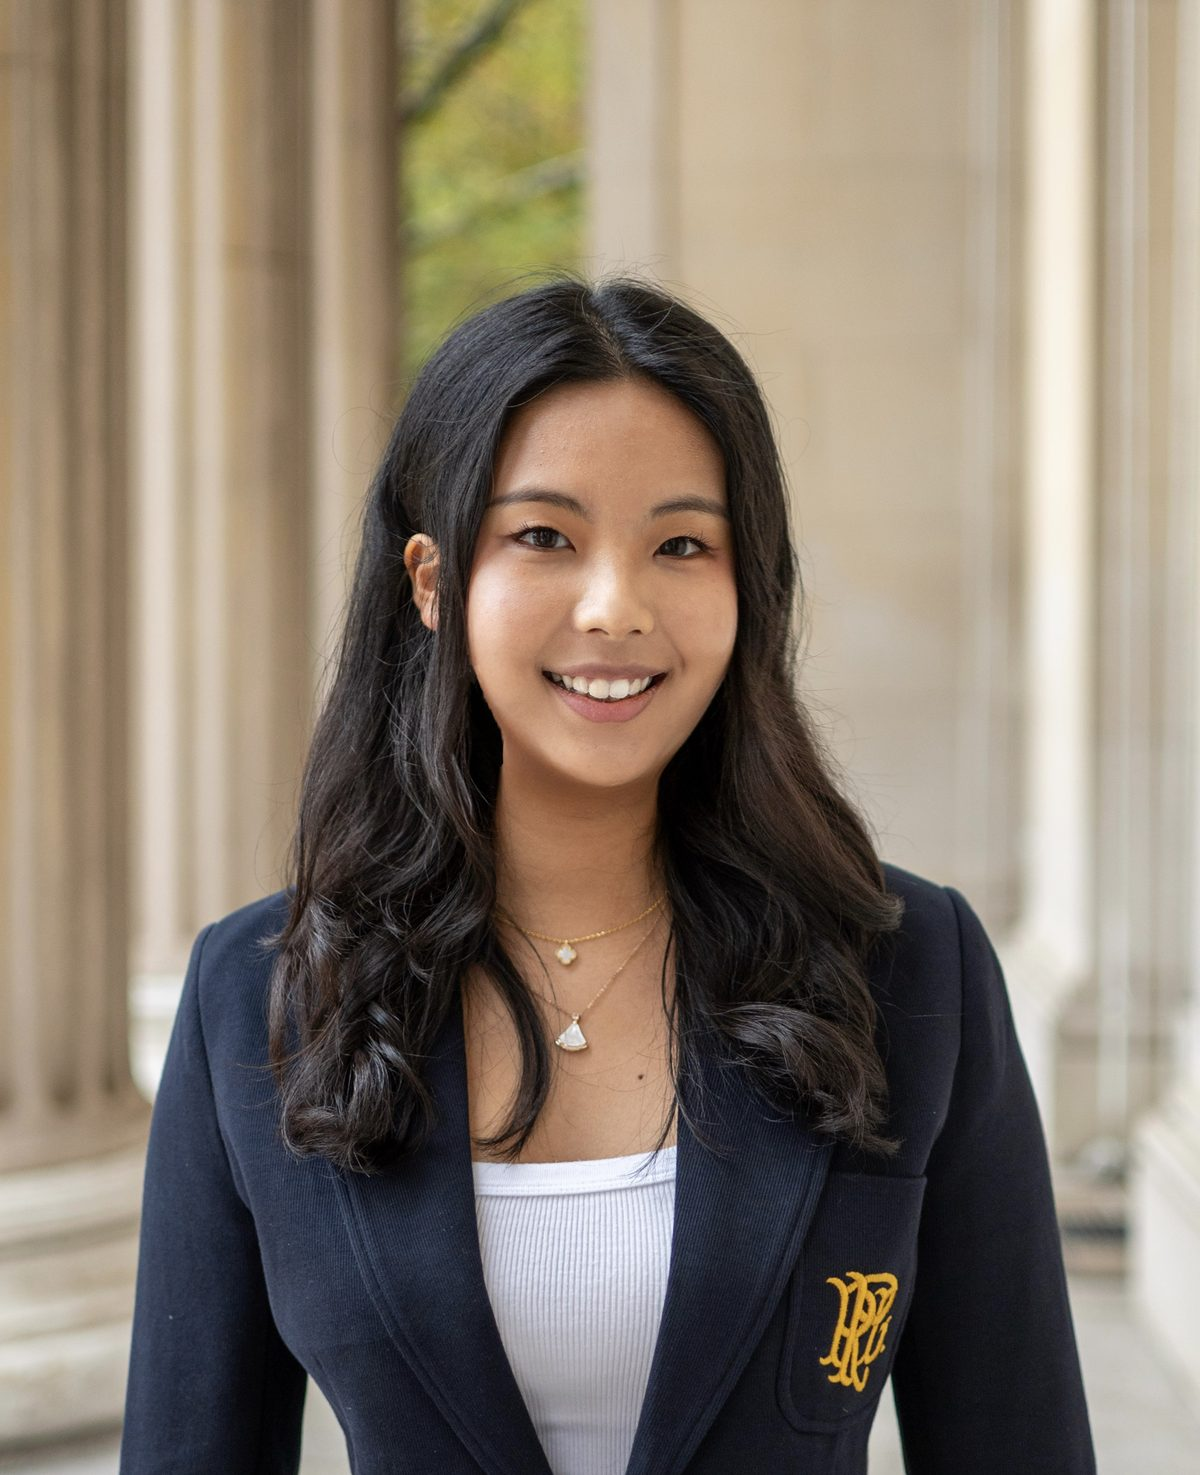
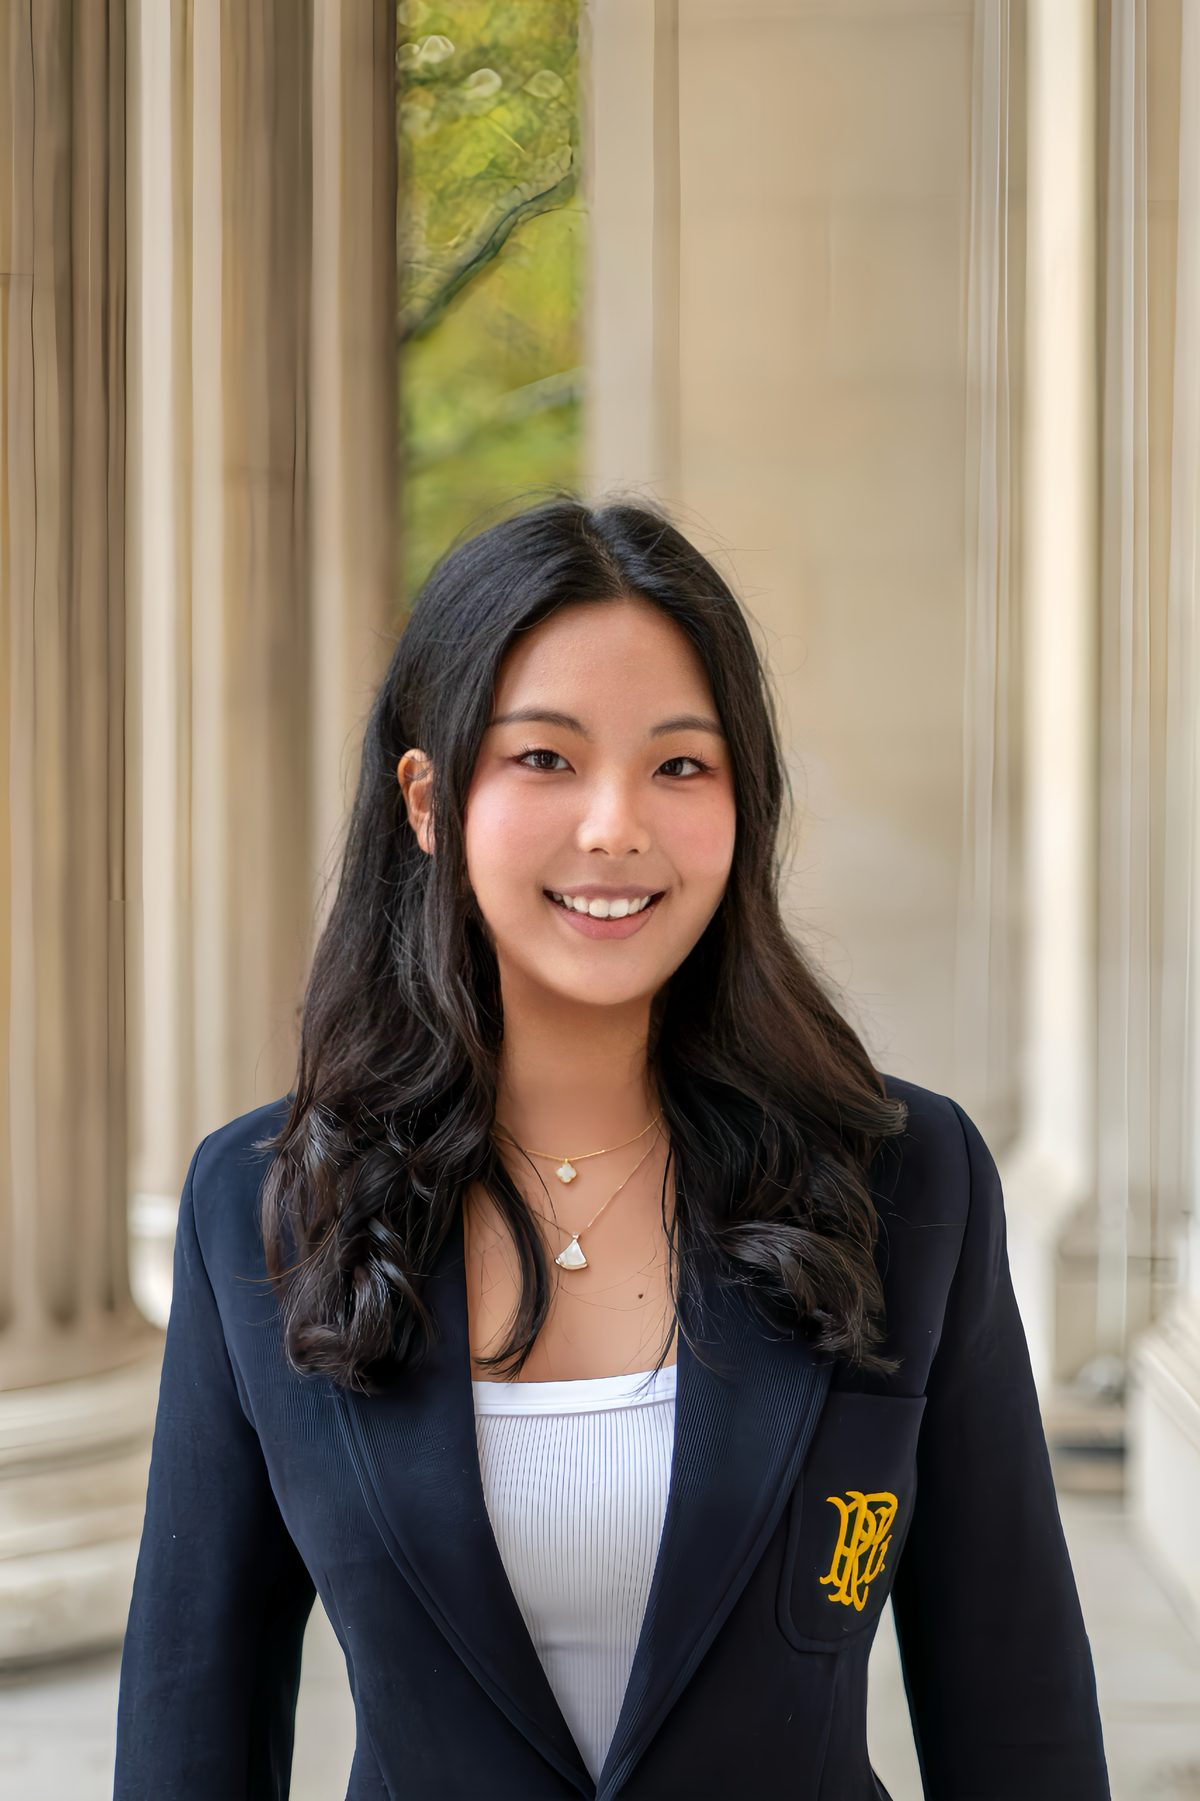
Replace the home page headshot
Resized the new photo to 1200x1801 and stripped its metadata.

Claude-Session: https://claude.ai/code/session_01W2x6jNPBJdnhEhopzcPLuY

diff --git a/index.html b/index.html
@@ -67,7 +67,7 @@
             </div>
           </div>
           <figure class="arch hero-photo">
-            <img src="assets/img/headshot.jpg" width="1200" height="1475" alt="Headshot of Skylar Tian in a navy blazer, standing between stone columns">
+            <img src="assets/img/headshot.jpg?v=2" width="1200" height="1801" alt="Headshot of Skylar Tian in a navy blazer, standing between stone columns">
           </figure>
         </div>
 
